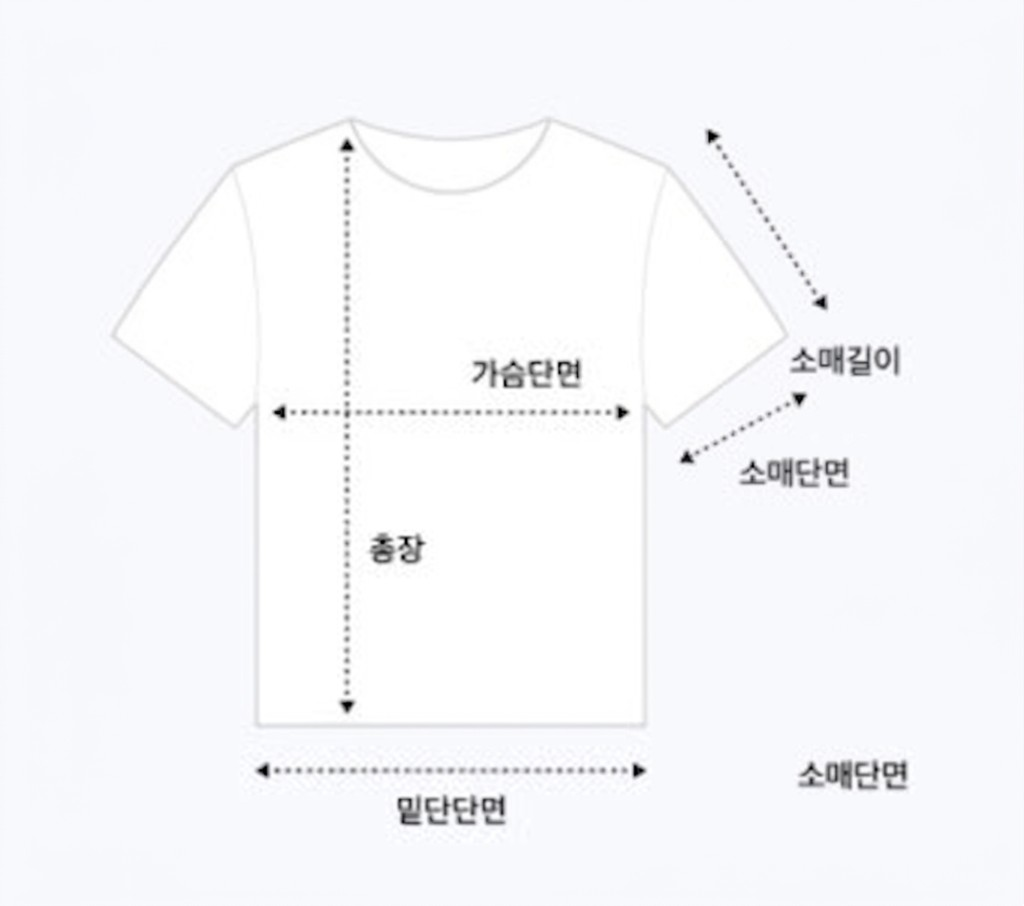
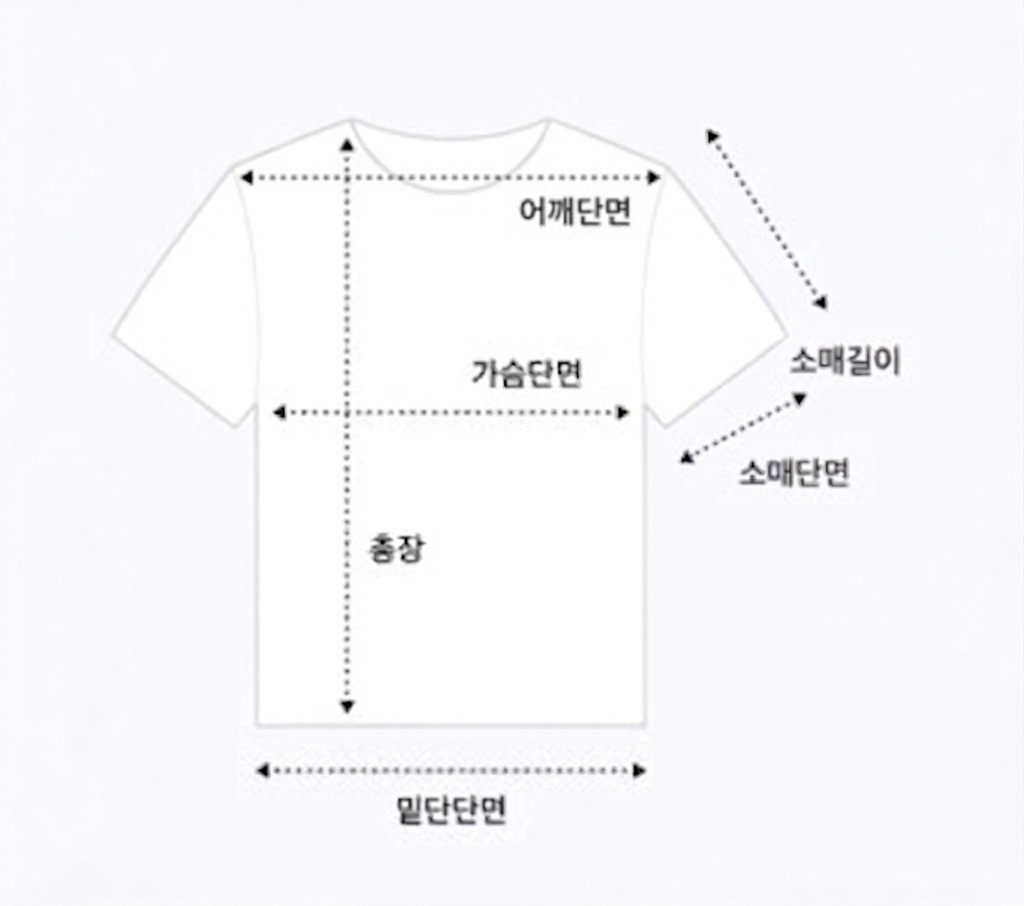
Update women-shortsleeve sizeinfo image and add shoulder column

Changed region(s): [[0.2188, 0.1854, 0.6562, 0.2472], [0.7812, 0.8344, 0.9062, 0.8962]]

diff --git a/js/config.js b/js/config.js
@@ -228,10 +228,10 @@ const CATEGORY_SIZEINFO = {
     fabricBichim: '없음', fabricThickness: '적당함',
     fabricStretch: '없음', fabricSeason: '봄', fabricLining: '없음',
     material: '',
-    colCount: 5,
-    col1: '가슴단면', col2: '밑단단면', col3: '소매길이', col4: '소매단면', col5: '총장',
+    colCount: 6,
+    col1: '어깨단면', col2: '가슴단면', col3: '밑단단면', col4: '소매길이', col5: '소매단면', col6: '총장',
     rowCount: 1,
-    row1size: 'FREE', row1v1: '54', row1v2: '48', row1v3: '68', row1v4: '12', row1v5: '43',
+    row1size: 'FREE', row1v1: '-', row1v2: '54', row1v3: '48', row1v4: '68', row1v5: '12', row1v6: '43',
     note: '단위: cm / 측정 방법에 따라 1~2cm 오차가 있을 수 있습니다.',
   },
   '여성-긴팔': {
